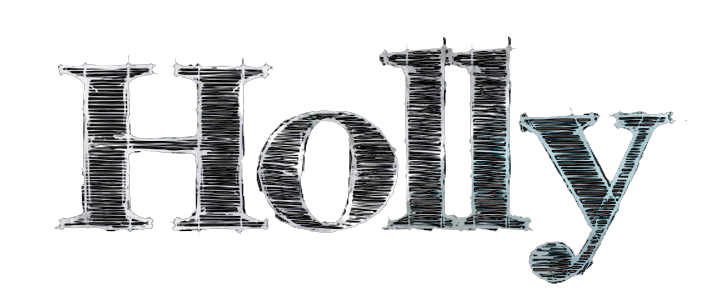
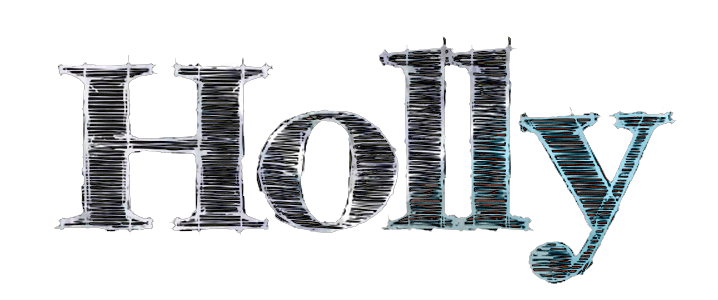
adjusted/uniformized color-scheme/padding/border-radius, decentered formatting, added holly link, adjusted holly text image (cleaned a speck, enhanced saturation)

diff --git a/app/assets/stylesheets/wordproblems.css.scss b/app/assets/stylesheets/wordproblems.css.scss
@@ -5,7 +5,7 @@
 .holly-ui {
   background: image-url("hollyBkgndCrop1.jpg") top center no-repeat;
   background-size: cover;
-  color: #801020;
+  color: #801010;
   padding: 60px;
 
 }
@@ -15,6 +15,7 @@
   // font-family: "fff_tusjbold";
   // line-height: 150px;
   text-align: center;
+  padding-right: 200px;
   padding-bottom: 10px;
   // text-shadow: 0px 0px 10px rgba(0,0,0,0.4)
 }
@@ -24,18 +25,22 @@
   text-align: center;
   margin-bottom: 20px;
   padding: 10px;
-  background-color: rgba(255,255,255,0.4);
+  padding-left: 270px;
+  padding-right: 50px;
+  background-color: rgba(125,245,255,0.4);
   width: 600px;
-  border-radius: 15px;
+  border-radius: 5px;
 }
 
 form {
-  text-align: center;
   // background-color: #fff;
   width: 60%;
   min-width: 600px;
   margin: 0 auto;
   padding: 20px;
+  padding-left: 430px;
+  padding-right: 30px;
+    width: 600px;
   // box-shadow: 0px 0px 10px rgba(0,0,0,0.4);
   color: #000;
 }
@@ -45,10 +50,12 @@ input[type=text] {
   width: 80%;
   font-size: 26px;
   line-height: 30px;
+  padding-left: 10px;
 }
 
 input[type=submit] {
-  height: 47px;
+  margin-top: -1px;
+  height: 48px;
   font-size: 26px;
   line-height: 26px;
 }
@@ -56,9 +63,13 @@ input[type=submit] {
 .sound-controls {
   background-color: rgba(255,255,255,0.4);
   margin: 0 auto;
-  margin-top: 10px;
-  padding: 5px;
-  border-radius: 10px;
+  margin-top: 15px;
+  padding: 8px;
+  margin-left: 270px;
+  margin-right: 30px;
+  width: 600px;
+
+  border-radius: 5px;
   width: 220px;
 }
 // // The following checkbox style is inspired by http://csscheckbox.com/
@@ -112,10 +123,10 @@ input[type=submit] {
     box-shadow: 0px 0px 10px rgba(0,0,0,0.4);
   }
   .operations {
-    background-color: #1ABC9C;
+    background-color: #00aea8;
   }
 
   .voice-info {
-    background-color: #801020;
+    background-color: #801010;
   }
 }

diff --git a/app/assets/stylesheets/bootstrap_and_overrides.css b/app/assets/stylesheets/bootstrap_and_overrides.css
@@ -10,3 +10,7 @@
   text-align: center;
   margin: 0;
 }
+
+.text-info{
+	color: #0060C0;
+}

diff --git a/app/assets/stylesheets/application.css.scss b/app/assets/stylesheets/application.css.scss
@@ -34,3 +34,6 @@
   width: 50%;
   padding: 10px;
 }
+strong {
+  color: #811;
+}
